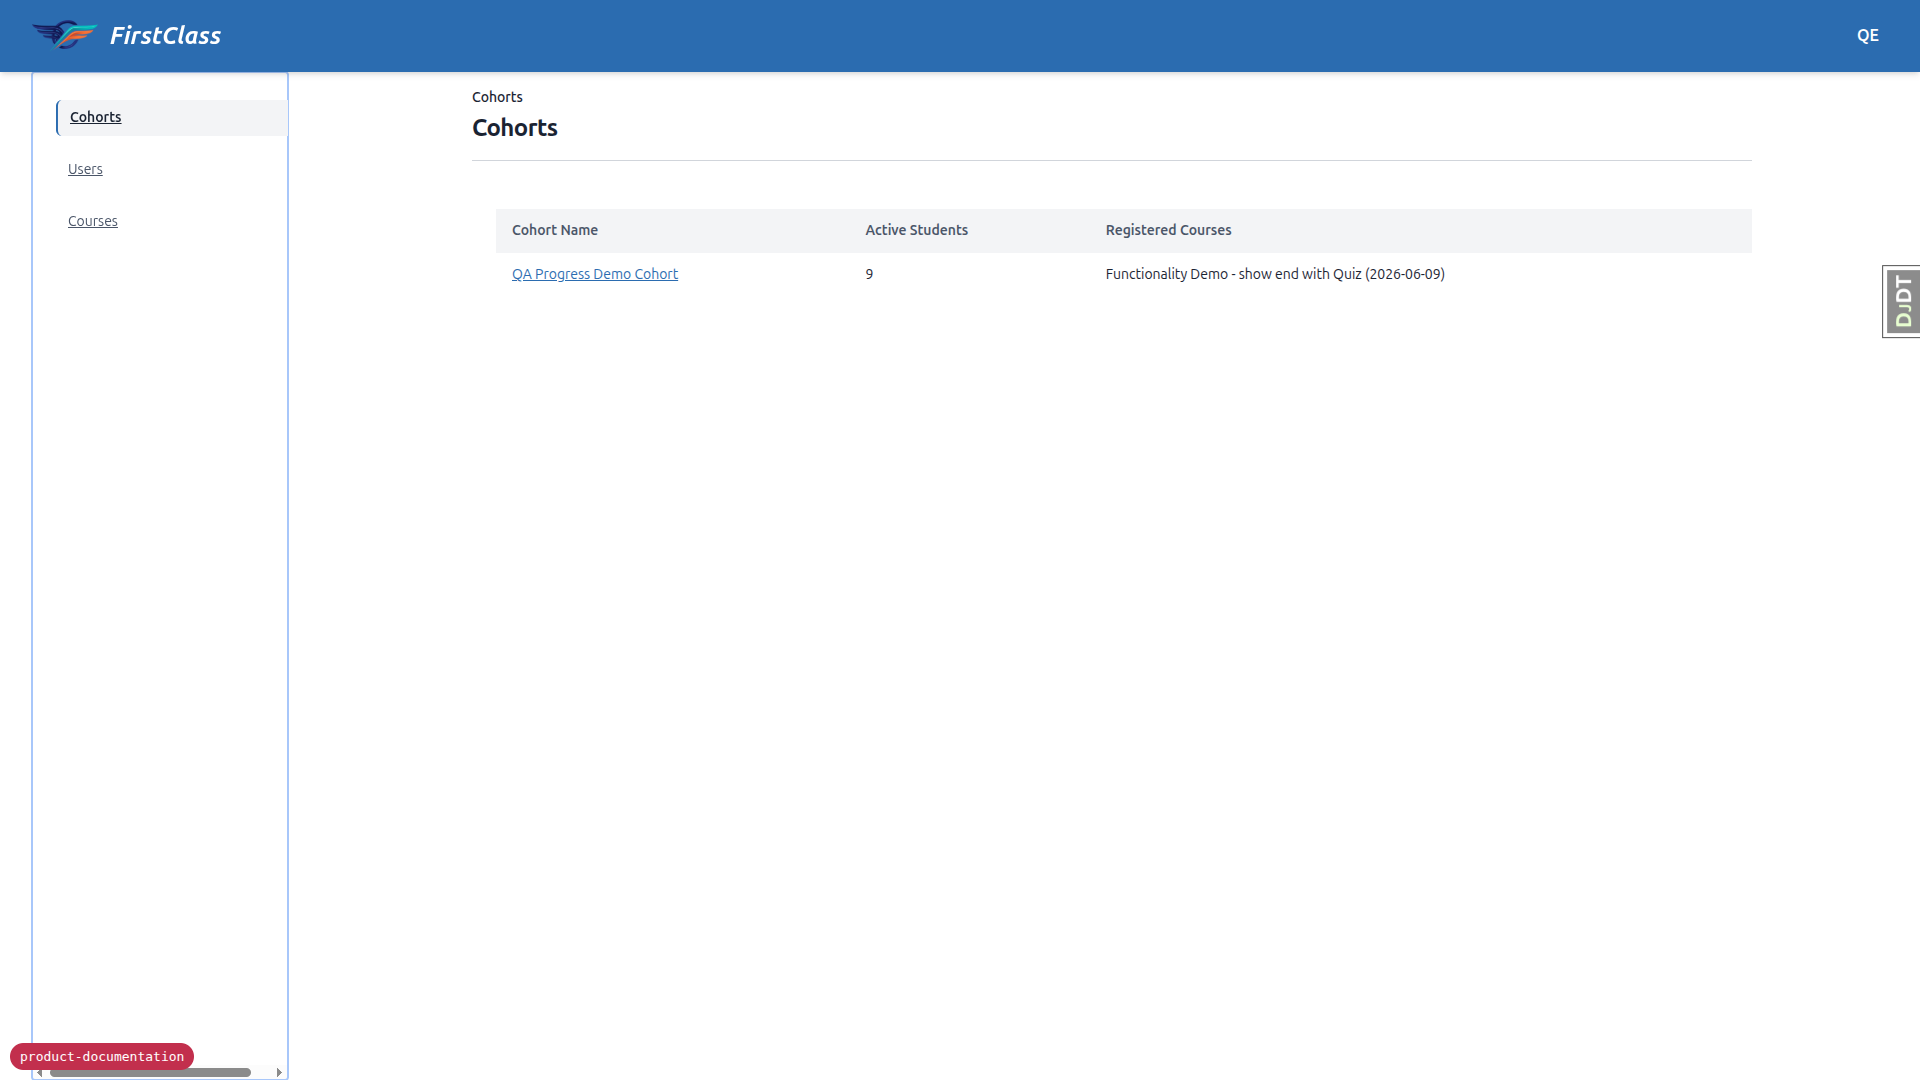
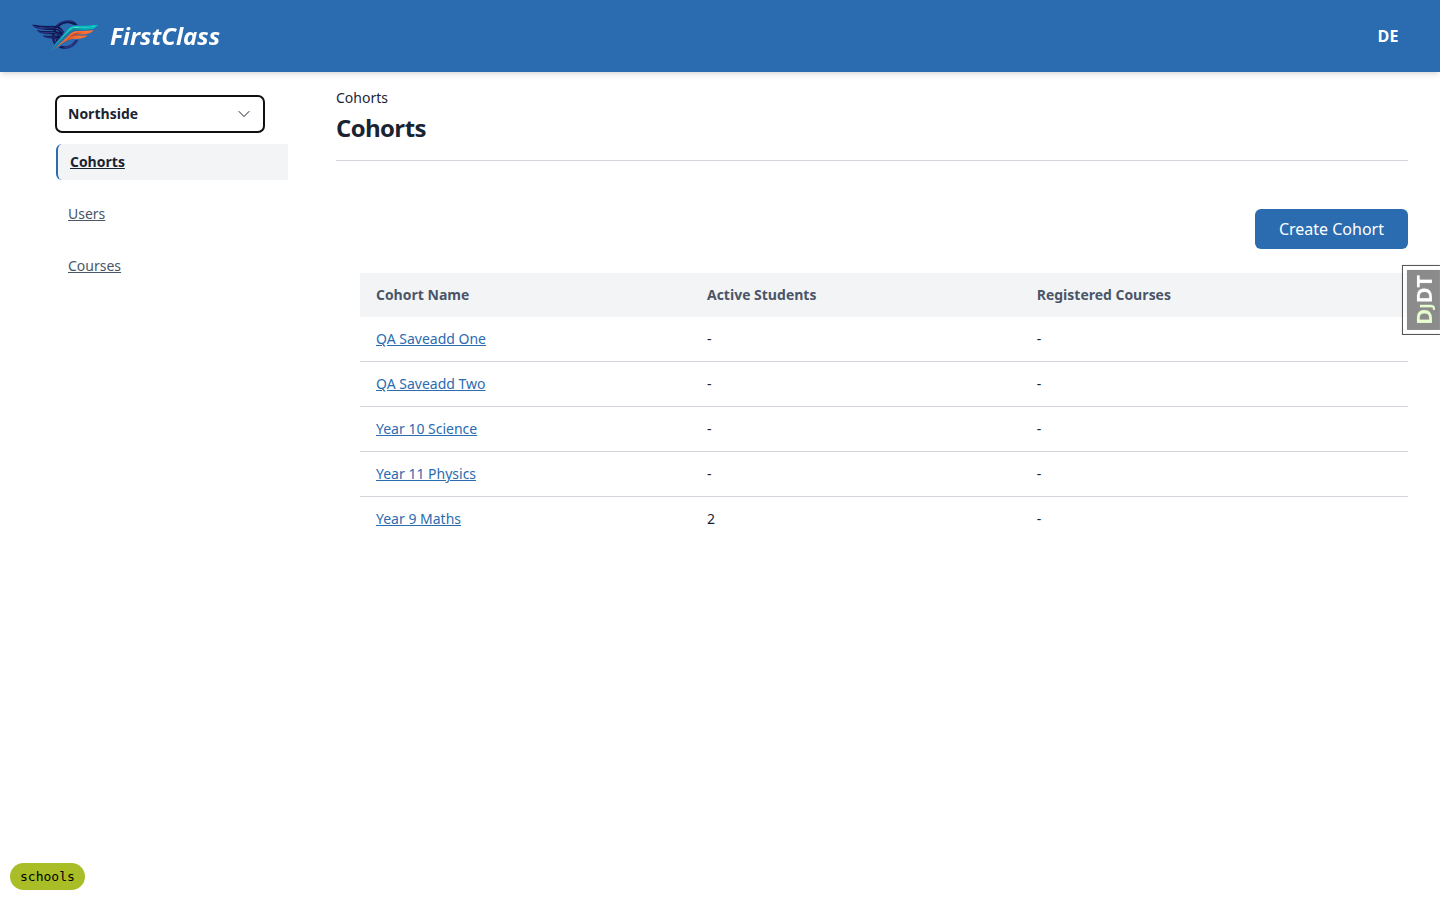
Add the Organisations screenshots to the product docs
The doc text for Organisations landed already; this adds the pictures.
The switcher and the player's co-branding mark are both new visual
surfaces, so the prose alone left an evaluator guessing at what they
look like.

educator_panel.png is refreshed rather than added: the old capture
predated the switcher, and it sits directly under a paragraph that now
says the interface is organisation-scoped.

diff --git a/docs/product/educator-interface.md b/docs/product/educator-interface.md
@@ -1,6 +1,6 @@
 # Educator Interface
 
-_Last updated: 2026-08-11_
+_Last updated: 2026-08-12_
 
 ## Summary
 
@@ -50,6 +50,8 @@ The educator interface is scoped to one **organisation** at a time — a groupin
 The current organisation is part of every page's URL rather than being remembered in the session, so two browser tabs can sit on two different organisations at once, the back button behaves correctly, and any page can be linked to directly.
 
 A switcher at the top of the left sidebar always names the current organisation. Where an educator can reach more than one, the name opens a list to switch between them; where they can reach only one, the name is still shown, as static text.
+
+![Organisation switcher open in the educator sidebar](screenshots/educator_organisation_switcher.png)
 
 Switching on a list page reloads it for the newly selected organisation. Switching while viewing a cohort or user that does not belong to the newly selected organisation returns to the equivalent list with an inline notice rather than an error page.
 

diff --git a/docs/product/learner-experience.md b/docs/product/learner-experience.md
@@ -1,6 +1,6 @@
 # Learner Experience
 
-_Last updated: 2026-08-11_
+_Last updated: 2026-08-12_
 
 ## Summary
 
@@ -175,6 +175,8 @@ Courses can be divided into parts (chapters); the player shows part-level progre
 Returning to a course sends the learner straight back to the item they last viewed, so they never have to find their place.
 
 ### Organisation Co-Branding
+
+![Course player with an organisation logo below the course title](screenshots/learner_player_organisation_logo.png)
 
 If a learner is studying a course through an organisation — reached either through their cohort or through their own registration — that organisation's logo appears in the course outline header beside the course title, as a small, clearly secondary mark. If the organisation has no logo, an initials monogram derived from its name is shown instead; if its name has no usable letters, a generic icon.
 

diff --git a/spec_dd/2. in progress/schools/todo.md b/spec_dd/2. in progress/schools/todo.md
@@ -59,7 +59,7 @@ Checklist for taking this spec from idea to merged PR. Tick items as they are co
 
 ## 10. Product documentation
 
-- [ ] (cmd) Run `/fls-dev:update_product_docs` to update docs/product/ for this feature
+- [x] (cmd) Run `/fls-dev:update_product_docs` to update docs/product/ for this feature
 - [ ] (user) Review the updated documentation
 
 ## 11. Upgrade notes
